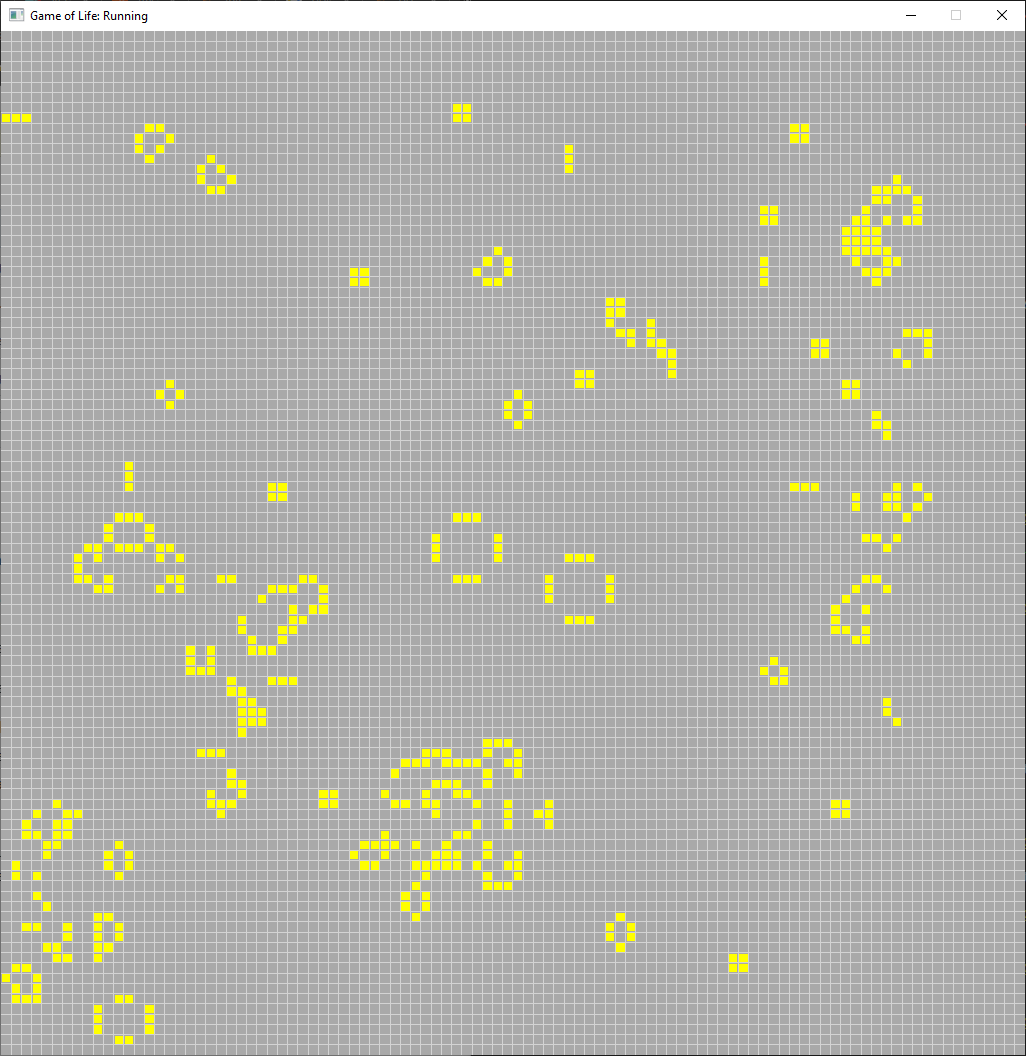
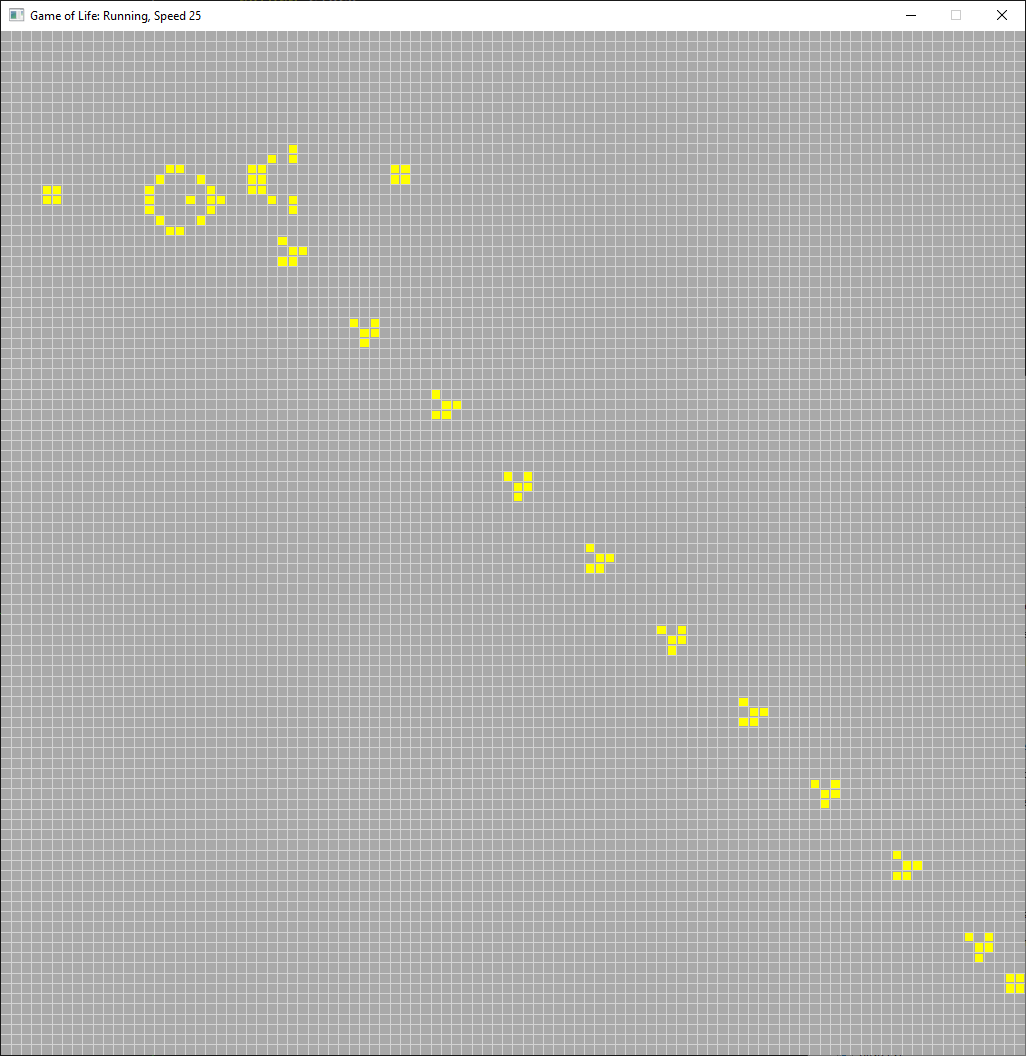
Allow speed adjustment with arrow keys

diff --git a/main.go b/main.go
@@ -20,7 +20,7 @@ const (
 	GRID_HEIGHT = float64(CANVAS_HEIGHT) / rules.BOARD_HEIGHT
 )
 
-func getTitle(running bool) string {
+func getTitle(running bool, speed int) string {
 	var status string
 	if running {
 		status = "Running"
@@ -28,7 +28,7 @@ func getTitle(running bool) string {
 		status = "Paused"
 	}
 
-	return fmt.Sprintf("Game of Life: %s", status)
+	return fmt.Sprintf("Game of Life: %s, Speed %d", status, speed)
 }
 
 func initGrid() *imdraw.IMDraw {
@@ -83,11 +83,25 @@ func getValueUnderMouse(win *pixelgl.Window, board *rules.Board) *bool {
 	return &board.Pieces[x][y]
 }
 
+func updateClock(clock *time.Ticker, speed int) *time.Ticker {
+	if clock != nil {
+		clock.Stop()
+		clock = nil
+	}
+
+	if speed != 0 {
+		clock = time.NewTicker(time.Second / time.Duration(speed))
+	}
+	return clock
+}
+
 func run() {
 	running := false
+	speed := 5
+	clock := updateClock(nil, speed)
 
 	cfg := pixelgl.WindowConfig{
-		Title:  getTitle(running),
+		Title:  getTitle(running, speed),
 		Bounds: pixel.R(0, 0, CANVAS_WIDTH, CANVAS_HEIGHT),
 		VSync:  true,
 	}
@@ -103,15 +117,25 @@ func run() {
 	pieces := imdraw.New(nil)
 	updatePieces(pieces, board)
 
-	clock := time.Tick(time.Millisecond * 250)
-
 	for !win.Closed() {
 		if win.JustPressed(pixelgl.KeySpace) {
 			running = !running
-			win.SetTitle(getTitle(running))
+			win.SetTitle(getTitle(running, speed))
 		}
 		if win.Pressed(pixelgl.KeyEscape) {
 			win.SetClosed(true)
+		}
+		if win.JustPressed(pixelgl.KeyRight) {
+			speed++
+			clock = updateClock(clock, speed)
+			win.SetTitle(getTitle(running, speed))
+		}
+		if win.JustPressed(pixelgl.KeyLeft) {
+			if speed > 0 {
+				speed--
+			}
+			clock = updateClock(clock, speed)
+			win.SetTitle(getTitle(running, speed))
 		}
 		if win.Pressed(pixelgl.MouseButtonLeft) {
 			value := getValueUnderMouse(win, board)
@@ -130,13 +154,15 @@ func run() {
 			}
 		}
 
-		select {
-		case <-clock:
-			if running {
-				board = rules.UpdateBoard(board)
-				updatePieces(pieces, board)
+		if clock != nil {
+			select {
+			case <-clock.C:
+				if running {
+					board = rules.UpdateBoard(board)
+					updatePieces(pieces, board)
+				}
+			default:
 			}
-		default:
 		}
 
 		win.Clear(colornames.Darkgrey)

diff --git a/README.md b/README.md
@@ -10,6 +10,8 @@ Running the program will give you an empty 100x100 grid, and the game will be pa
 * Left mouse button: populate pieces
 * Right mouse button: delete pieces
 * Space: toggle running/paused
+* Right arrow: increase speed
+* Left arrow: decrease speed
 * Escape: exit
 
 The master branch contains rules which simply populate a new piece at random on each tick. There is also a rulesimpl branch which contains
